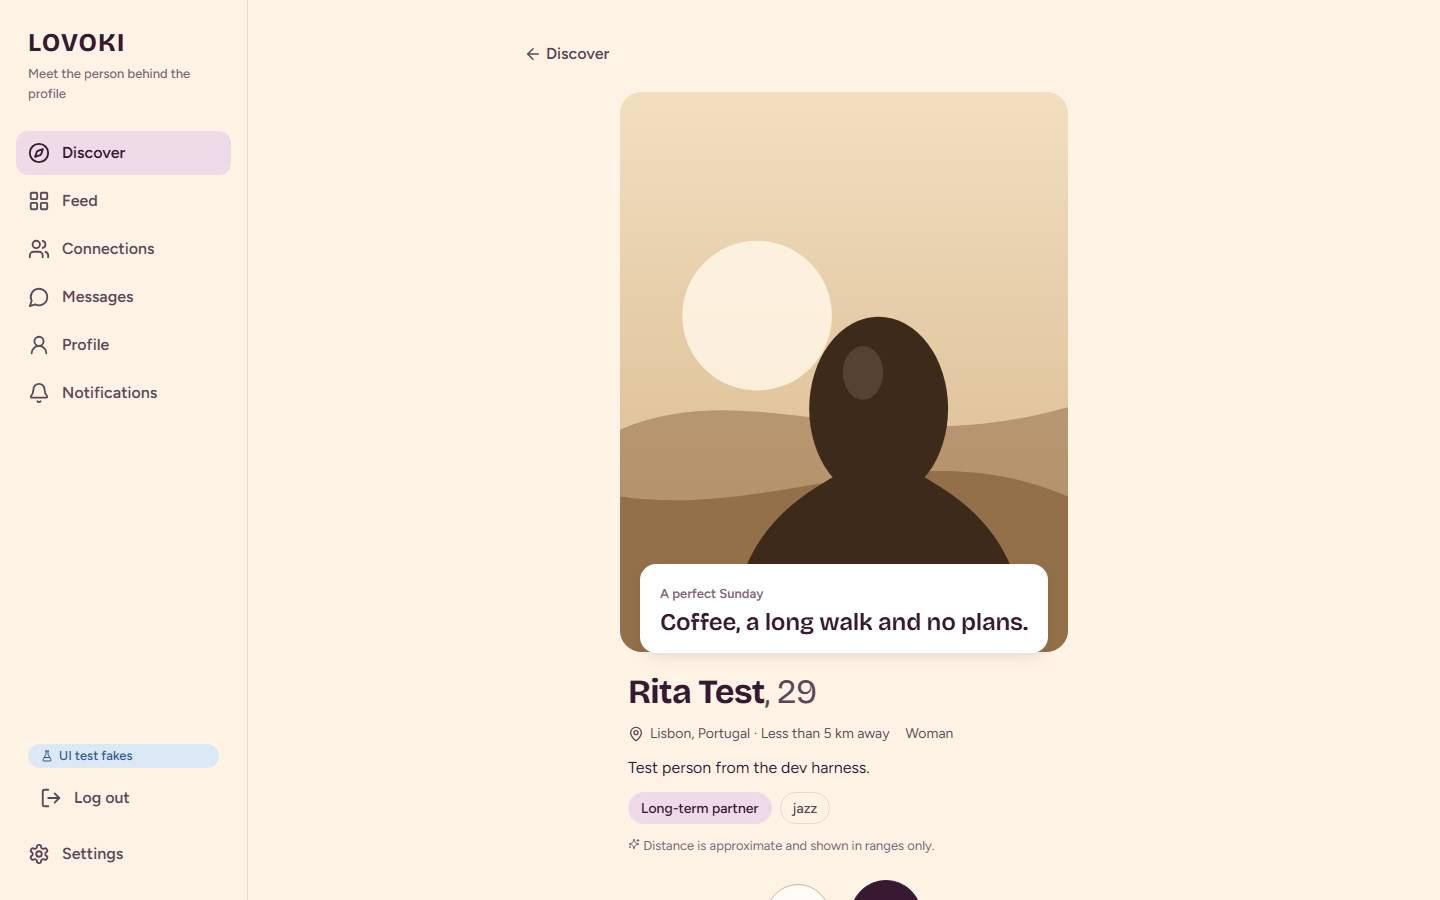
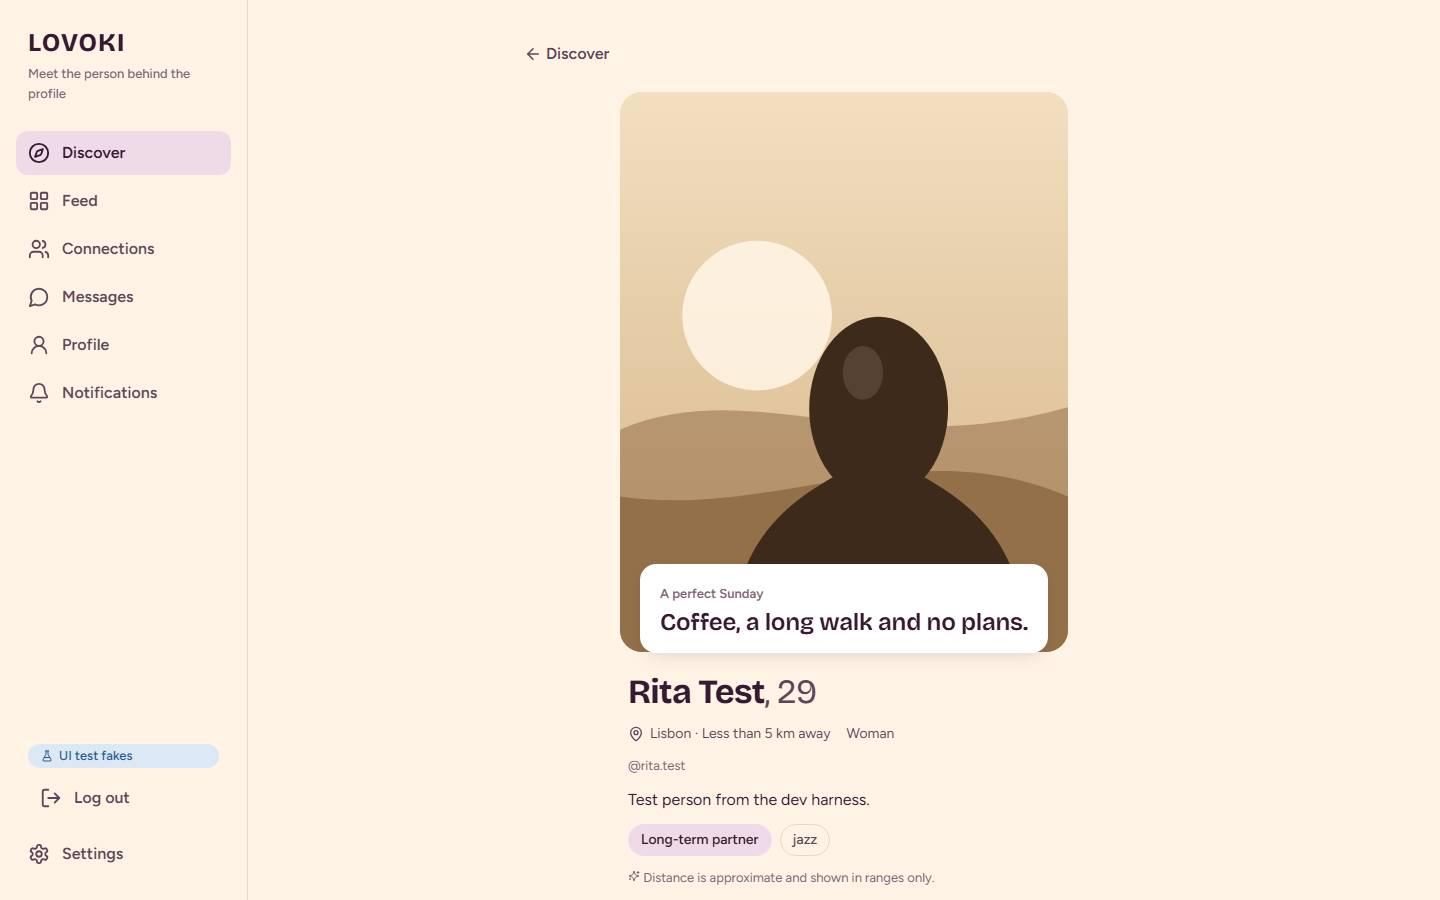
3.5: dating/social suites updated; 44px place chip remove; fake place labels match the database

Changed region(s): [[0.4375, 0.8089, 0.6562, 1.0]]

diff --git a/apps/web/src/profile/PlacePicker.tsx b/apps/web/src/profile/PlacePicker.tsx
@@ -63,9 +63,9 @@ export function PlacePicker({ api, value, onChange, error, label = 'Your city' }
     <div className="field" data-invalid={!!error}>
       <label htmlFor={`${id}-in`}>{label}</label>
       {value && (
-        <div className="row chip chip-dating" style={{ justifySelf: 'start', gap: 8 }} data-testid="place-chosen">
+        <div className="row chip chip-dating" style={{ justifySelf: 'start', gap: 8, paddingBlock: 0, paddingInlineEnd: 0 }} data-testid="place-chosen">
           <MapPin size={16} aria-hidden /><span className="break">{value.label}</span>
-          <button type="button" className="icon-btn" style={{ width: 32, height: 32 }} aria-label={`Remove ${value.label}`} onClick={() => { onChange(null); setTimeout(() => box.current?.focus(), 0); }}><X size={16} aria-hidden /></button>
+          <button type="button" className="icon-btn" aria-label={`Remove ${value.label}`} onClick={() => { onChange(null); setTimeout(() => box.current?.focus(), 0); }}><X size={16} aria-hidden /></button>
         </div>
       )}
       <div style={{ position: 'relative' }}>

diff --git a/packages/core/src/fake-places.ts b/packages/core/src/fake-places.ts
@@ -4,7 +4,7 @@ import { haversineKm, type PlaceHit } from './dating';
 
 export interface FakePlace extends PlaceHit { id: number; lat: number; lng: number }
 const p = (id: number, name: string, region: string, countryCode: string, country: string, lat: number, lng: number): FakePlace =>
-  ({ id, name, region, countryCode, country, lat, lng, label: `${name}, ${region ? region + ', ' : ''}${country}` });
+  ({ id, name, region, countryCode, country, lat, lng, label: `${name}, ${region && region !== name ? region + ', ' : ''}${country}` });
 export const FAKE_PLACES: FakePlace[] = [
   p(2267057, 'Lisbon', 'Lisbon', 'PT', 'Portugal', 38.72, -9.14), p(2735943, 'Porto', 'Porto', 'PT', 'Portugal', 41.15, -8.61), p(3117735, 'Madrid', 'Madrid', 'ES', 'Spain', 40.42, -3.7),
   p(3128760, 'Barcelona', 'Catalonia', 'ES', 'Spain', 41.39, 2.17), p(2988507, 'Paris', 'Ile-de-France', 'FR', 'France', 48.86, 2.35), p(2643743, 'London', 'England', 'GB', 'United Kingdom', 51.51, -0.13),

diff --git a/scripts/dating-e2e.py b/scripts/dating-e2e.py
@@ -20,9 +20,12 @@ def overflow(pg): return pg.evaluate("document.documentElement.scrollWidth - doc
 def wait_card(pg): pg.wait_for_selector('[data-testid=dating-card]', timeout=8000)
 def card_name(pg): return pg.locator('[data-testid=dating-card] .dc-name').first.inner_text()
 
-def setup_dating(pg, gender='man', place='Lisbon, Portugal', lat=38.72, lng=-9.14):
+PLACE_IDS = {'Lisbon, Portugal': (2267057, 'Lisbon', 'Lisbon', 'PT', 'Portugal'), 'Madrid, Spain': (3117735, 'Madrid', 'Madrid', 'ES', 'Spain'), 'Porto, Portugal': (2735943, 'Porto', 'Porto', 'PT', 'Portugal')}
+
+def setup_dating(pg, gender='man', place='Lisbon, Portugal', lat=None, lng=None):
     """Gives the signed-in fake account a dating profile the way Settings would (the harness mirrors it into the dating world)."""
-    pg.evaluate(f"(() => {{ const a = [...window.__fake.accounts.values()].pop().account; a.gender = '{gender}'; a.interestedIn = ['women', 'men', 'non-binary']; a.place = {{ label: '{place}', lat: {lat}, lng: {lng} }}; a.areaLabel = '{place}'; }})()")
+    i, name, region, cc, country = PLACE_IDS[place]
+    pg.evaluate(f"(() => {{ const a = [...window.__fake.accounts.values()].pop().account; a.gender = '{gender}'; a.interestedIn = ['women', 'men', 'non-binary']; a.datingDiscoverable = true; a.place = {{ id: {i}, name: '{name}', region: '{region}', countryCode: '{cc}', country: '{country}', label: '{place}' }}; a.areaLabel = '{place}'; }})()")
     pg.wait_for_function("window.__fake.dworld.d([...window.__fake.accounts.keys()].pop()).gender !== null", timeout=4000)
     # Rita Test already likes every new account. Passing her keeps her out of the random deck, so tests that like or pass "whoever is first" stay deterministic.
     pg.evaluate(f"window.__fake.dworld.actions.set([...window.__fake.accounts.keys()].pop() + '>{RITA}', {{ action: 'pass', at: Date.now() }})")
@@ -43,16 +46,17 @@ def main():
         U.signup_confirm_login(pg, f'date.{uuid.uuid4().hex[:6]}@example.com'); U.finish_onboarding(pg)
 
         def needs_gender():
-            go(pg, '/discover'); expect(pg.get_by_role('heading', name='Add your gender to start')).to_be_visible(); expect(pg.get_by_role('link', name='Open settings')).to_be_visible()
+            go(pg, '/discover'); expect(pg.get_by_role('heading', name='Dating is paused')).to_be_visible(); expect(pg.get_by_role('link', name='Open settings')).to_be_visible()
             assert 'Dating Test' not in pg.inner_text('main'), 'no one is shown before the profile is ready'
-        T('discover: without a gender it says why and offers Settings (no fabricated people)', needs_gender)
+        T('discover: a new account is paused until Discover is turned on; it says why and offers Settings (no fabricated people)', needs_gender)
 
         def settings_dating():
             go(pg, '/settings'); sec = pg.get_by_role('region', name='Dating profile'); expect(sec).to_be_visible()
             sec.get_by_role('group', name='Your gender').get_by_role('button', name='Man', exact=True).click(); expect(pg.get_by_text('Gender saved.')).to_be_visible()
-            sec.get_by_label(re.compile('^Your city')).select_option(label='Lisbon, Portugal'); expect(pg.get_by_text('Your place is saved as Lisbon, Portugal.')).to_be_visible()
-            expect(sec.get_by_text('We never use your device location')).to_be_visible(); expect(sec.get_by_text('never shown to anyone')).to_be_visible()
-            assert pg.evaluate("document.querySelector('#place').value") == '' and 'Currently: Lisbon, Portugal' in pg.inner_text('#place'), 'place shown as saved'
+            pg.get_by_role('button', name=re.compile('^Remove Kochi')).click(); expect(pg.get_by_text('Your city was removed.')).to_be_visible()
+            sec.get_by_role('combobox').fill('Lisb'); pg.get_by_role('listbox', name='Cities').get_by_role('option').first.click(); expect(pg.get_by_text('Your city is saved as Lisbon, Portugal.')).to_be_visible()
+            expect(sec.get_by_text('We never show your city on a map')).to_be_visible()
+            expect(sec.get_by_test_id('place-chosen')).to_contain_text('Lisbon, Portugal')
             sec.get_by_label(re.compile('^Show my gender')).click(); expect(pg.get_by_text('Saved.').first).to_be_visible(); pg.wait_for_function("[...window.__fake.accounts.values()].pop().account.showGender === false"); sec.get_by_label(re.compile('^Show my gender')).click(); pg.wait_for_function("[...window.__fake.accounts.values()].pop().account.showGender === true")
         T('settings: gender, approximate city, display flags, honest privacy copy', settings_dating)
         setup_dating(pg); reset_filters(pg)

diff --git a/scripts/social-e2e.py b/scripts/social-e2e.py
@@ -251,9 +251,9 @@ def main(visuals_only=False):
             T('empty states for a brand-new account; no demo people', empty_notifications_and_posts)
 
             def demo_guard():
-                go(pg, '/discover'); expect(pg.get_by_role('heading', name='Add your gender to start')).to_be_visible()
+                go(pg, '/discover'); expect(pg.get_by_role('heading', name='Dating is paused')).to_be_visible()
                 go(pg, '/messages'); expect(pg.get_by_role('heading', name='Messaging isn’t live yet')).to_be_visible()
-            T('Discover starts honestly empty without a gender; Messages remains a Phase 5 screen', demo_guard)
+            T('Discover starts honestly paused; Messages remains a Phase 5 screen', demo_guard)
 
             def reduced_motion_real():
                 """Asserts what reduced motion DOES: animated elements stop animating. Compares against a no-preference context."""

diff --git a/scripts/ui-e2e.py b/scripts/ui-e2e.py
@@ -50,7 +50,7 @@ def do_basics(pg, name='Pradi', dob='1996-04-18', handle=None, gender='Man'):
     expect(pg.get_by_text('Available.', exact=False).first).to_be_visible()
 
 def pick_place(pg, query='Koch', label='Kochi'):
-    box = pg.get_by_role('combobox'); box.fill(query); pg.get_by_role('option').first.wait_for(); pg.keyboard.press('ArrowDown'); pg.keyboard.press('Enter')
+    box = pg.get_by_role('combobox'); box.fill(query); pg.get_by_role('listbox', name='Cities').get_by_role('option').first.wait_for(); pg.keyboard.press('ArrowDown'); pg.keyboard.press('Enter')
     expect(pg.get_by_test_id('place-chosen')).to_contain_text(label)
 
 def finish_onboarding(pg, shot=None, overflow=None):
